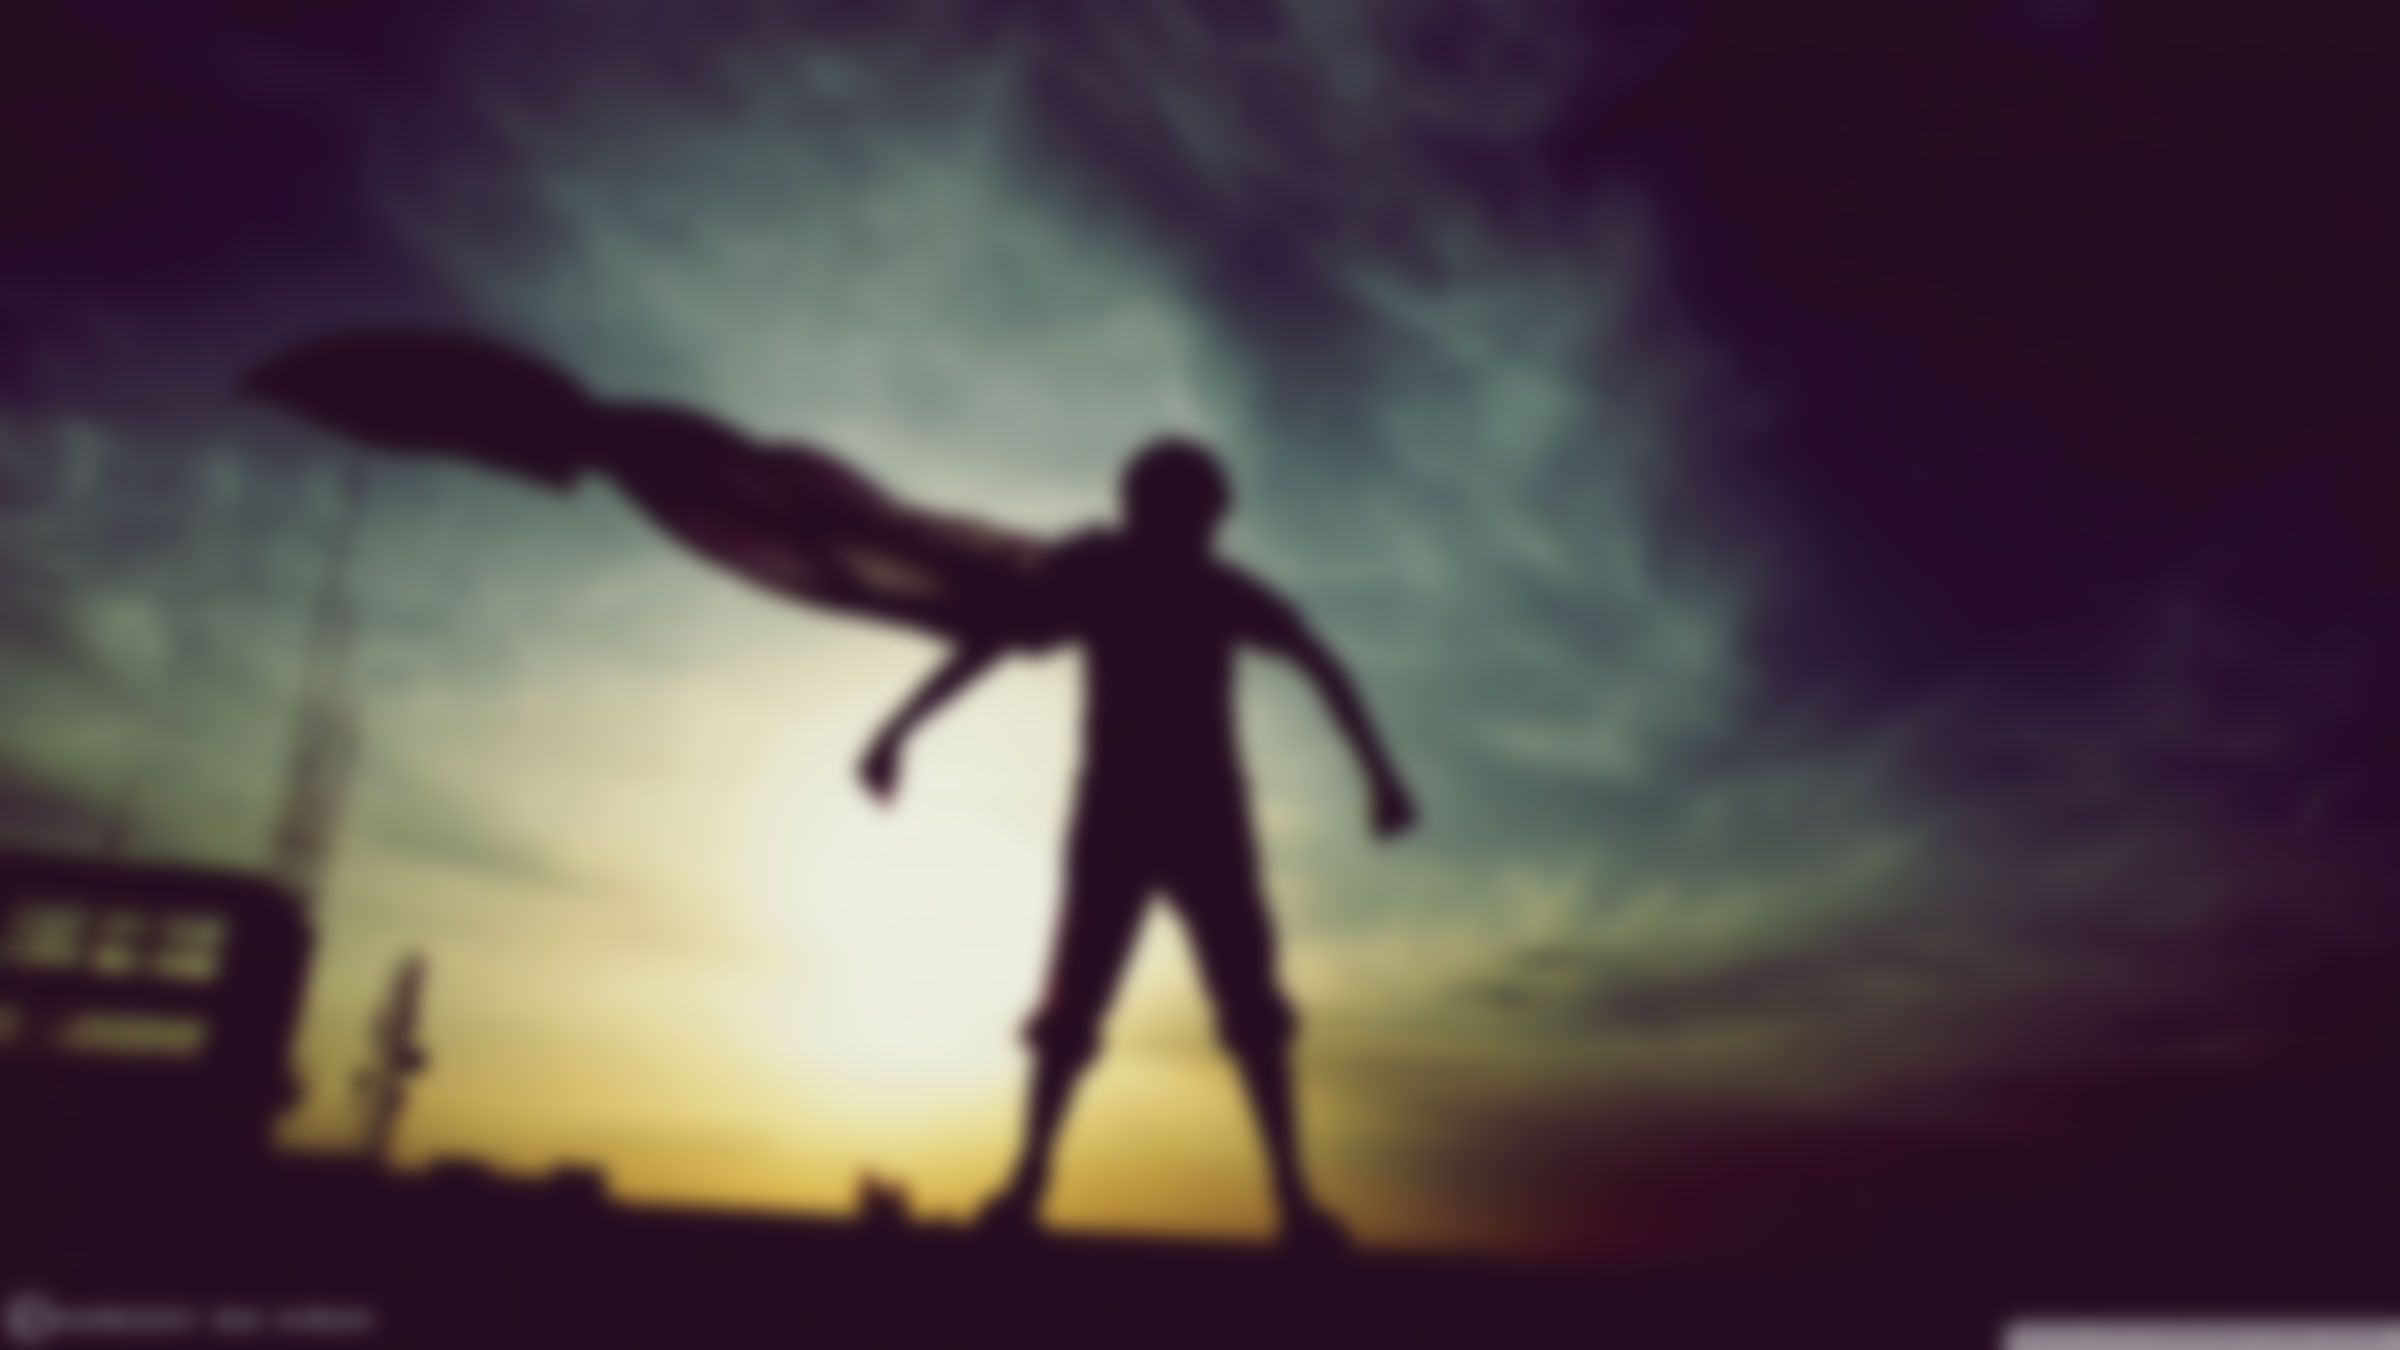
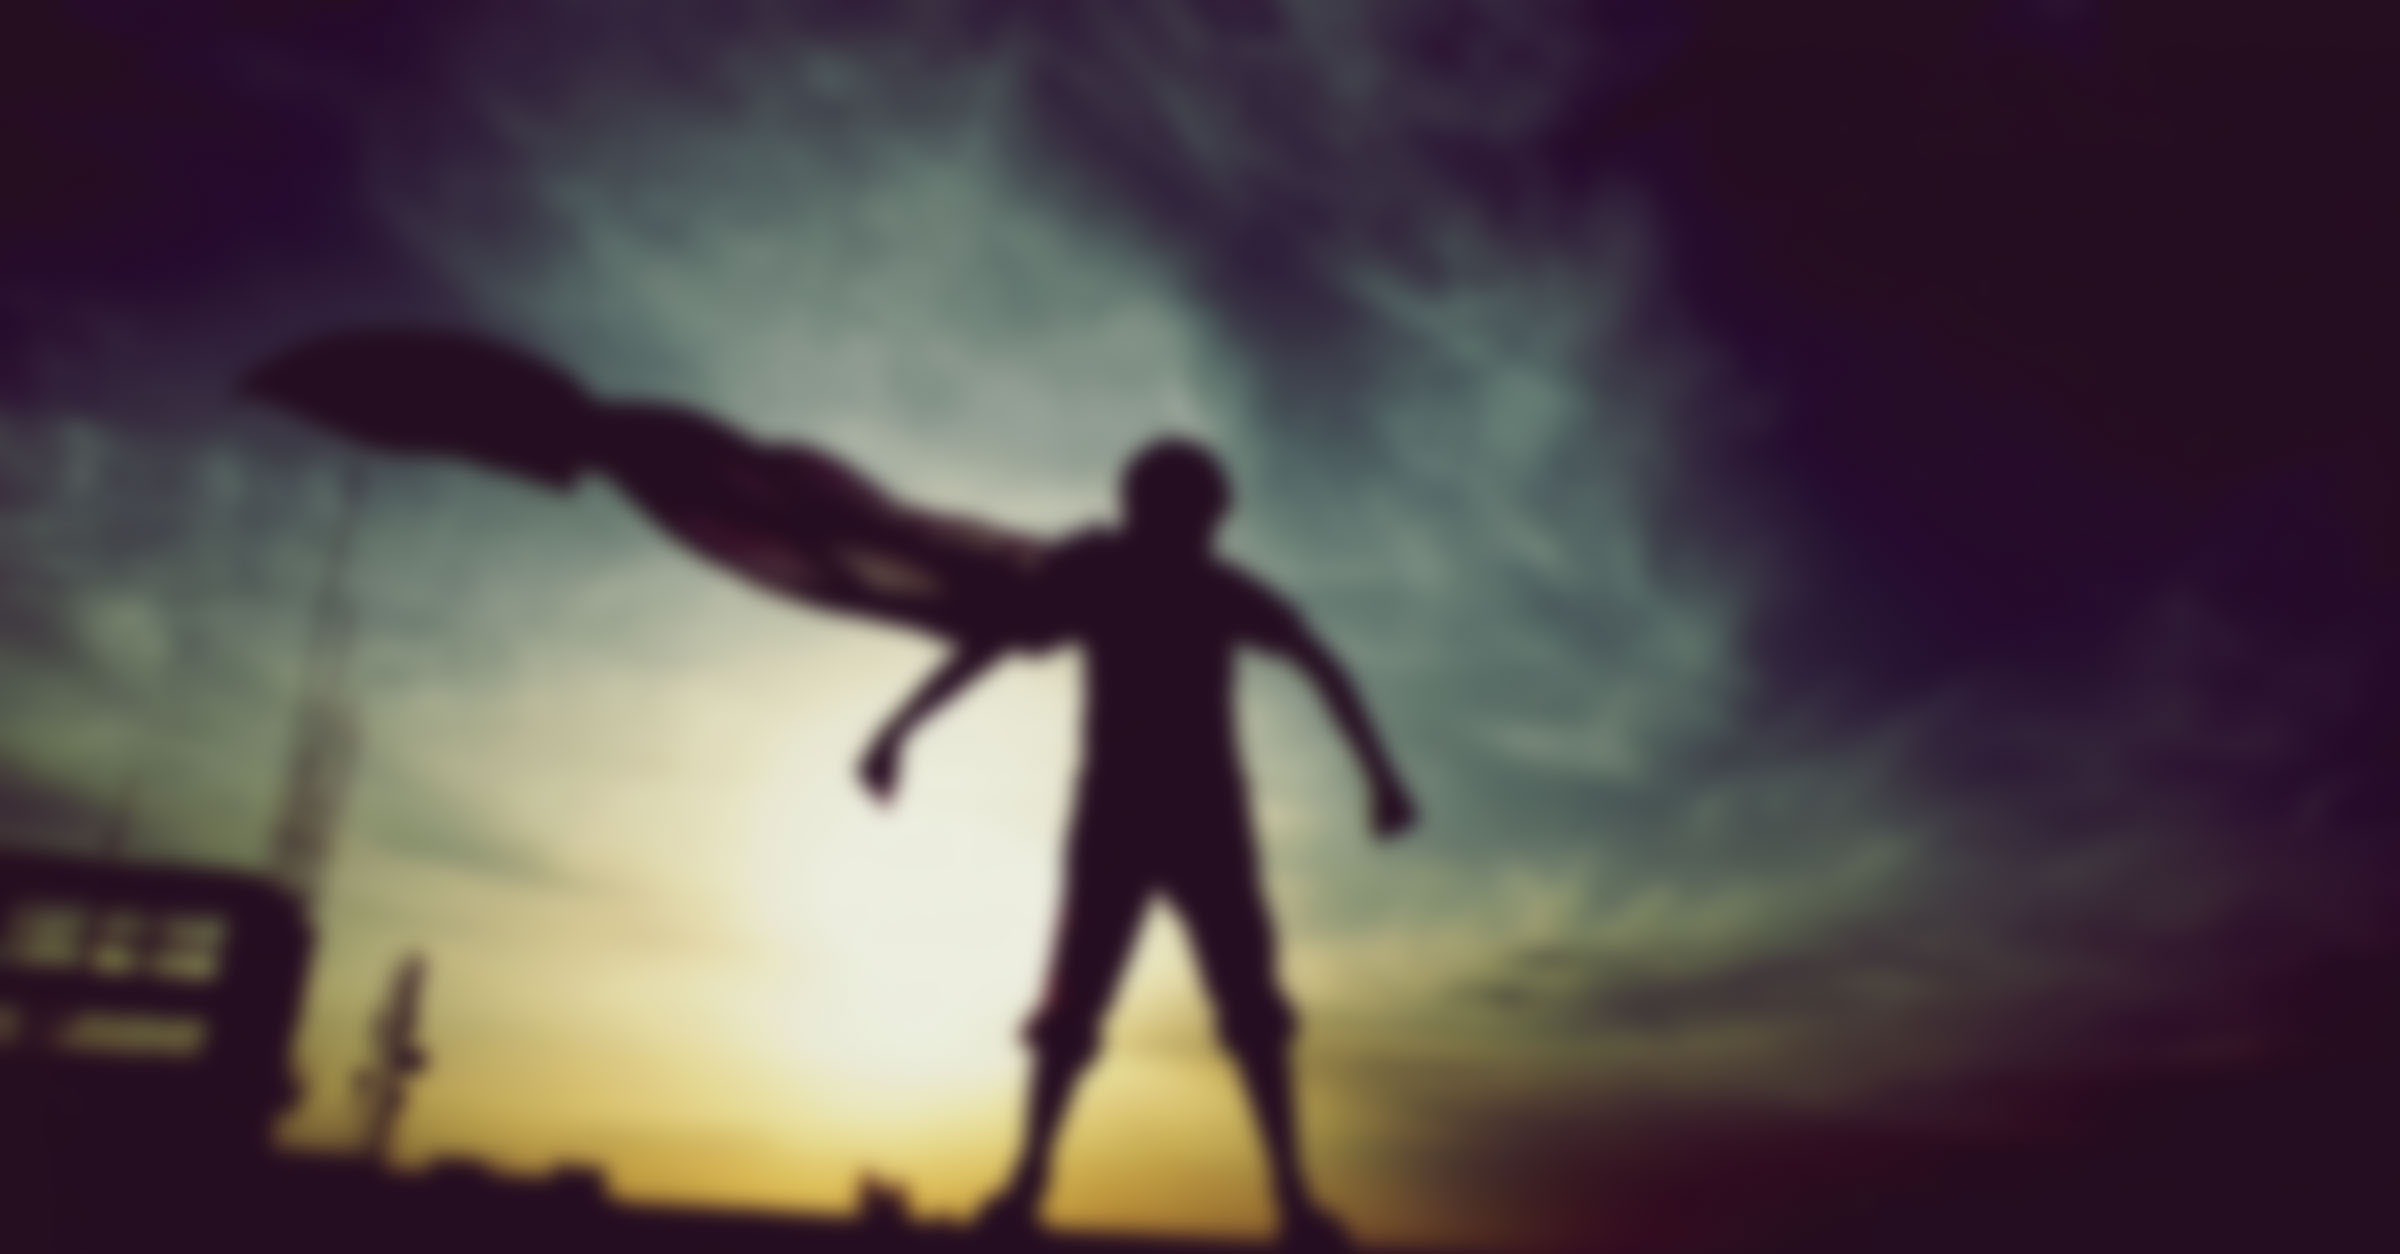
updated image responsiveness

diff --git a/projects/groundcrew/index.html b/projects/groundcrew/index.html
@@ -45,7 +45,7 @@
   #header {
     /* The file size of this background image is 93% smaller
      * to improve page load speed on mobile internet connections */
-    background: url("img/super1.jpg") no-repeat 120% ;
+    background: url("img/super1.jpg") no-repeat center center !important;
   
   
 	}   
